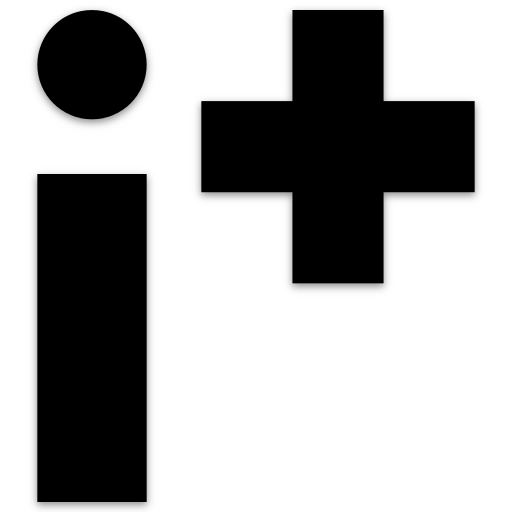
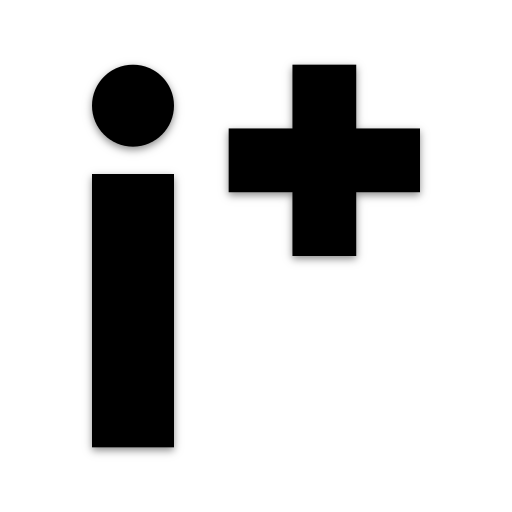
💄 Fix smol styles [patch] (#32)
* Add a bit of margin to favicon

* Fit social preview img better

* Misc

* tweaks

* make carousel more obv

* end

diff --git a/src/pages/error/crash/index.tsx b/src/pages/error/crash/index.tsx
@@ -2,24 +2,38 @@ import React from "react";
 import styled from "styled-components";
 import { Ghost } from "react-kawaii";
 
-import { Text, Link } from "src/components";
+import { PageContainer, Text, Link } from "src/components";
 import { FEEDBACK_LINK } from "src/components/PageFooter/copy";
 
 const Contents = styled.div`
   position: relative;
-  width: 100vw;
-  height: 100vh;
+  width: 100%;
+  min-height: 600px;
 
   display: flex;
   justify-content: center;
   align-items: center;
 
-  & > div {
-    margin-left: 40px;
+  & > div.textContainer {
+    margin-left: 50px;
     max-width: 300px;
   }
-`;
 
+  ${({ theme }) => theme.mediaQueries.tablet`
+    flex-direction: column;
+    text-align: center;
+    min-height: 450px;
+
+    & > div.textContainer {
+      margin-top: 60px;
+      margin-left: 0;
+
+      & h1 {
+        font-size: 26px;
+      }
+    }
+  `}
+`;
 const FloatingGhost = styled(Ghost)`
   &::after {
     content: "";
@@ -40,19 +54,21 @@ const FloatingGhost = styled(Ghost)`
 `;
 
 const CrashPage = () => (
-  <Contents>
-    <FloatingGhost size={240} mood="ko" color="#E0E4E8" />
-    <div>
-      <Text variant="heading1" as="div">
-        Yikes! Something went wrong.
-      </Text>
-      <Text variant="subheading" color="greyDark" as="div" size={20}>
-        If you have the time, please{" "}
-        <Link to={FEEDBACK_LINK}>report the issue</Link> you encountered. Thank
-        you!
-      </Text>
-    </div>
-  </Contents>
+  <PageContainer>
+    <Contents>
+      <FloatingGhost size={240} mood="ko" color="#E0E4E8" />
+      <div className="textContainer">
+        <Text variant="heading1" as="h1">
+          Yikes! Something went wrong.
+        </Text>
+        <Text variant="subheading" color="greyDark" as="div" size={20}>
+          If you have the time, please{" "}
+          <Link to={FEEDBACK_LINK}>report the issue</Link> you encountered.
+          Thank you!
+        </Text>
+      </div>
+    </Contents>
+  </PageContainer>
 );
 
 export default CrashPage;

diff --git a/src/pages/landing/index.tsx b/src/pages/landing/index.tsx
@@ -8,7 +8,6 @@ import { GetCompaniesReviewsLanding } from "src/types/generated/GetCompaniesRevi
 import { GET_COMPANIES_REVIEWS_LANDING } from "./graphql/queries";
 import { buildLandingCardsList } from "./graphql/utils";
 
-import { Size } from "src/theme/constants";
 import { RouteName, SearchFilter } from "src/utils/constants";
 import { useScrollTopOnMount } from "src/utils/hooks/useScrollTopOnMount";
 import pageCopy from "./copy";
@@ -44,14 +43,6 @@ const TitleCard = styled.div`
     flex-direction: column-reverse;
     justify-content: flex-end;
   `}
-
-  ${({ theme }) => theme.mediaQueries.largeMobile`
-    height: 515px;
-  `}
-
-  ${({ theme }) => theme.mediaQueries.smallMobile`
-    height: 550px;
-  `}
 `;
 
 const TitleCardLeft = styled.div`
@@ -70,19 +61,16 @@ const TitleCardLeft = styled.div`
     margin-bottom: 30px;
   }
 
-
   ${({ theme }) => theme.mediaQueries.medium`
     width: 100%;
     height: 45%;
-    padding: 20px 0;
+    padding: 10px 0;
 
     text-align: center;
     align-items: center;
-  `}
 
-  ${({ theme }) => theme.mediaQueries.largeMobile`
-    & h1 {
-      font-size: ${theme.fontSize[Size.LARGE]}px;
+    & h3 {
+      margin-bottom: 20px;
     }
   `}
 
@@ -99,12 +87,20 @@ const TitleCardRight = styled.div`
   align-items: center;
 
   & > img {
+    position: relative;
     max-width: 100%;
   }
 
   ${({ theme }) => theme.mediaQueries.medium`
     width: 100%;
     height: 55%;
+  `}
+
+  ${({ theme }) => theme.mediaQueries.medium`
+    & > img {
+      max-width: 110%;
+      left: -5%;
+    }
   `}
 `;
 

diff --git a/src/pages/landing/components/LandingCardDisplay.tsx b/src/pages/landing/components/LandingCardDisplay.tsx
@@ -13,7 +13,14 @@ import {
 } from "src/types";
 import pageCopy from "../copy";
 
-import { CompanyCard, ReviewCard, Link, Text } from "src/components";
+import {
+  CompanyCard,
+  ReviewCard,
+  Link,
+  Text,
+  HEADER_PADDING_MOBILE,
+  MOBILE_MENU_MEDIA_QUERY,
+} from "src/components";
 
 /*******************************************************************
  *                             **Types**                           *
@@ -118,9 +125,19 @@ const Display = styled.div`
   justify-content: space-between;
   align-items: center;
   overflow: scroll;
+  -webkit-overflow-scrolling: touch;
 
   position: relative;
   padding: 25px 0;
+
+  ${({ theme }) => theme.mediaQueries[MOBILE_MENU_MEDIA_QUERY]`
+    width: calc(100% + ${HEADER_PADDING_MOBILE * 2}px);
+    left: -${HEADER_PADDING_MOBILE}px;
+
+    & > :first-child {
+      margin-left: ${HEADER_PADDING_MOBILE}px;
+    }
+  `}
 `;
 
 const MiscContentContainer = styled.span`
@@ -132,14 +149,15 @@ const landingCardStyles = css`
   width: 350px;
   height: 180px;
   flex-shrink: 0;
-  margin-left: 22px;
+  flex-grow: 0;
+  margin-right: 22px;
 
-  &:first-child {
+  &:last-child {
     margin-left: 0;
   }
 
   ${({ theme }) => theme.mediaQueries.largeMobile`
-    width: 100%;
+    width: 80%;
   `}
 `;
 

diff --git a/src/pages/error/404/index.tsx b/src/pages/error/404/index.tsx
@@ -4,6 +4,7 @@ import { Redirect } from "react-router-dom";
 import { Ghost } from "react-kawaii";
 
 import { RouteName } from "src/utils/constants";
+
 import { PageContainer, Text } from "src/components";
 
 const Contents = styled.div`
@@ -15,10 +16,25 @@ const Contents = styled.div`
   justify-content: center;
   align-items: center;
 
-  & > div {
-    margin-left: 40px;
+  & > div.textContainer {
+    margin-left: 50px;
     max-width: 300px;
   }
+
+  ${({ theme }) => theme.mediaQueries.tablet`
+    flex-direction: column;
+    text-align: center;
+    min-height: 450px;
+
+    & > div.textContainer {
+      margin-top: 60px;
+      margin-left: 0;
+
+      & h1 {
+        font-size: 26px;
+      }
+    }
+  `}
 `;
 
 const FloatingGhost = styled(Ghost)`
@@ -54,8 +70,8 @@ const NotFoundPage = () => {
     <PageContainer>
       <Contents>
         <FloatingGhost size={240} mood="shocked" color="#E0E4E8" />
-        <div>
-          <Text variant="heading1" as="div">
+        <div className="textContainer">
+          <Text variant="heading1" as="h1">
             This page doesn't exist. Spooky!
           </Text>
           <Text variant="subheading" color="greyDark" as="div" size={20}>
